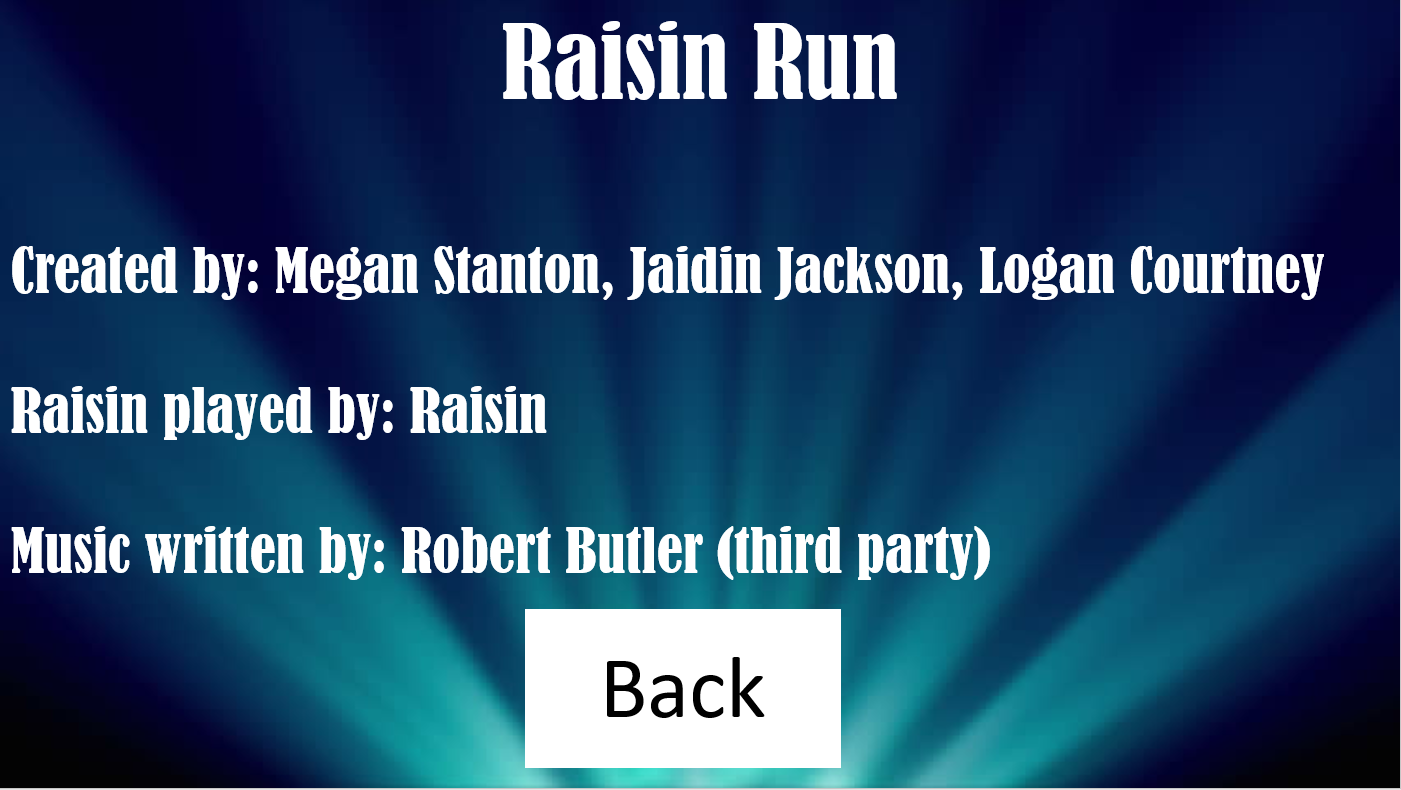
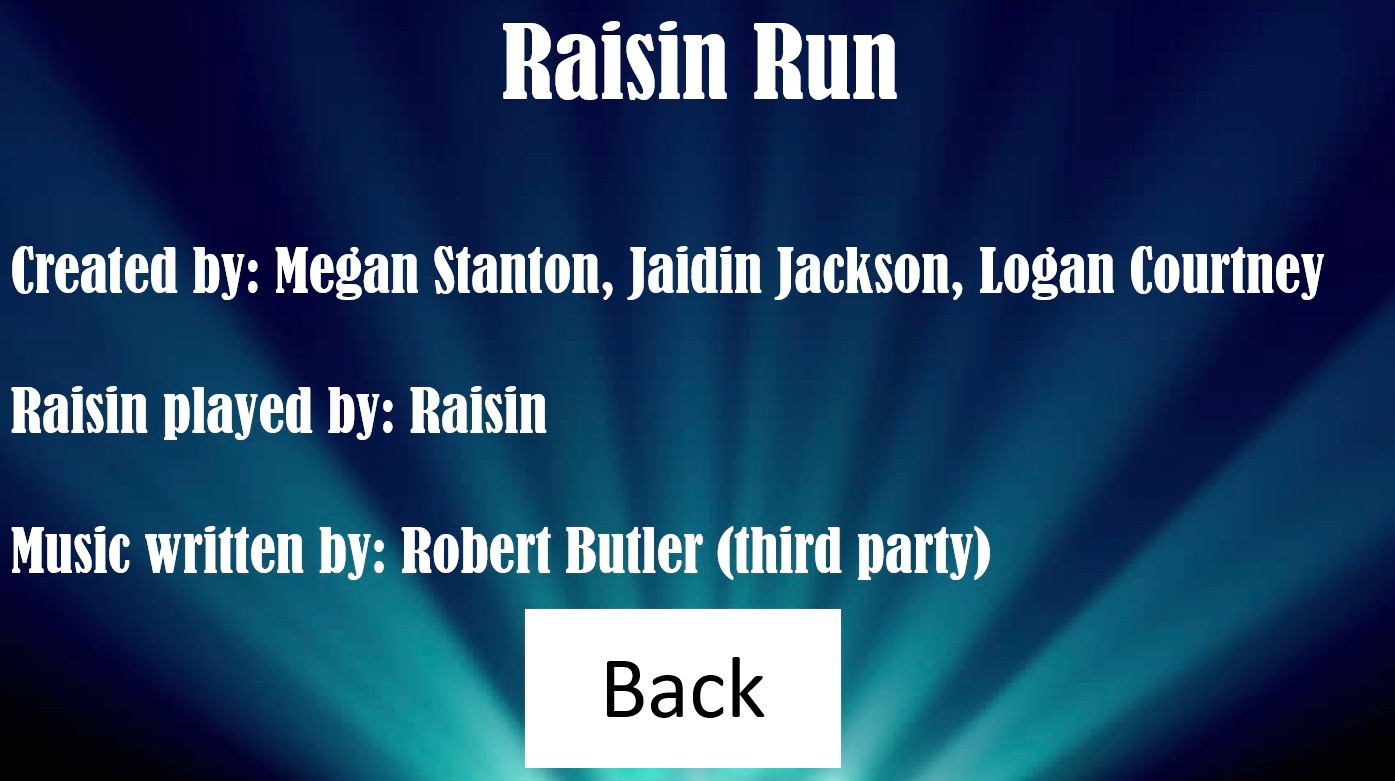
updates

diff --git a/game.cpp b/game.cpp
@@ -11,13 +11,24 @@ int WindowWidth, WindowHeight;
 map<string, string> myTextures;
 string textureName;
 
+class Cat{
+	public:
+		static const int CAT_WIDTH = 20;
+		static const int DOG_HEIGHT = 20;
+		
+		Cat();
+		void moveCat();
+		void render();
+	private:
+		int mPosX, mPosY;
+};	
+
 class Dog{
 	public:
 		static const int DOG_WIDTH = 20;
 		static const int DOG_HEIGHT = 20;
 	
 		Dog();
-		void handleEvent(SDL_Event& e);
 		void jump();
 		void render();
 	private:
@@ -28,6 +39,7 @@ void PlayGame(){
 	bool back = 0;
 	SDL_Event e;
 	Dog Raisin;	
+	Cat cat1;
 	
 	WindowWidth = 1230;
 	WindowHeight = 846;
@@ -39,6 +51,7 @@ void PlayGame(){
 	gBGTexture.render(0,0);
 	
 	Raisin.render();
+	cat1.render();
 	SDL_RenderPresent(gRenderer);	
 		
 	
@@ -56,8 +69,8 @@ void PlayGame(){
 						//Back to menu
 						textureName = "menu";
 						
-						WindowWidth = 1112;
-						WindowHeight = 790;
+						WindowWidth = 1099;
+						WindowHeight = 780;
 						SDL_SetWindowSize(gWindow, WindowWidth, WindowHeight);	
 						SDL_SetRenderDrawColor(gRenderer, 0xFF, 0xFF, 0xFF, 0xFF);
 						SDL_RenderClear(gRenderer);
@@ -108,8 +121,8 @@ int main(int argc, char* argv[]) {
 						SDL_GetMouseState(&x, &y);
 
 						//Check if mouse if in the play button
-						if(x < 680 && x > 418) {
-							if(y < 555 && y > 460) {
+						if(x < 672 && x > 411) {
+							if(y < 550 && y > 462) {
 								x = 0;
 								y = 0;
 								PlayGame();
@@ -117,15 +130,15 @@ int main(int argc, char* argv[]) {
 						}
 
 						//Check if mouse is in the credits button
-						if(x < 680 && x > 418) {
-							if(y < 665 && y > 575) {
+						if(x < 672 && x > 411) {
+							if(y < 660 && y > 570) {
 								x = 0;
 								y = 0;
 								//Credits
 								textureName = "credits";
 								
-								WindowWidth = 1401;
-								WindowHeight = 790;
+								WindowWidth = 1395;
+								WindowHeight = 781;
 								SDL_SetWindowSize(gWindow,WindowWidth,WindowHeight);
 								SDL_SetRenderDrawColor(gRenderer, 0xFF, 0xFF, 0xFF, 0xFF);
 								SDL_RenderClear(gRenderer);
@@ -135,8 +148,8 @@ int main(int argc, char* argv[]) {
 						}
 
 						//Check if mouse is in the exit button
-						if(x < 680 && x > 418) {
-							if(y < 776 && y > 690) {
+						if(x < 672 && x > 411) {
+							if(y < 773 && y > 687) {
 								quit = true;
 							}
 						}
@@ -154,8 +167,8 @@ int main(int argc, char* argv[]) {
 								//Back to menu
 								textureName = "menu";
 								
-								WindowWidth = 1112;
-								WindowHeight = 790;								
+								WindowWidth = 1099;
+								WindowHeight = 780;								
 								SDL_SetWindowSize(gWindow,WindowWidth,WindowHeight);
 								SDL_SetRenderDrawColor(gRenderer, 0xFF, 0xFF, 0xFF, 0xFF);
 								SDL_RenderClear(gRenderer);
@@ -180,7 +193,7 @@ int main(int argc, char* argv[]) {
 
 Dog::Dog(){
 	mPosX = 0;
-	mPosY = 0;
+	mPosY = 662;
 }
 
 void Dog::jump(){
@@ -189,5 +202,18 @@ void Dog::jump(){
 
 void Dog::render(){
 	gDogTexture.render(mPosX, mPosY);
+}
+
+Cat::Cat(){
+	mPosX = 300;
+	mPosY = 662;
+}
+
+void Cat::moveCat(){
+
+}
+
+void Cat::render(){
+	cat.render(mPosX, mPosY);
 }
 

diff --git a/window.h b/window.h
@@ -5,8 +5,8 @@
 
 using namespace std;
 
-const int SCREEN_WIDTH = 1112;
-const int SCREEN_HEIGHT = 790;
+const int SCREEN_WIDTH = 1099;
+const int SCREEN_HEIGHT = 780;
 
 //The window we'll be rendering to
 SDL_Window* gWindow = NULL;
@@ -55,7 +55,7 @@ LTexture gBGTexture;
 LTexture gDogTexture;
 LTexture menu;
 LTexture credits;
-
+LTexture cat;
 
 bool init() {
 	//Initialization flag
@@ -120,6 +120,11 @@ bool loadMedia(string file) {
 	
 	if(!gDogTexture.loadFromFile("RaisinFullBody.png")){
 		printf("failed to load dog texture\n");
+		success = false;
+	}
+	
+	if(!cat.loadFromFile("cat.png")){
+		printf("failed to load cat texture\n");
 		success = false;
 	}		
 	
